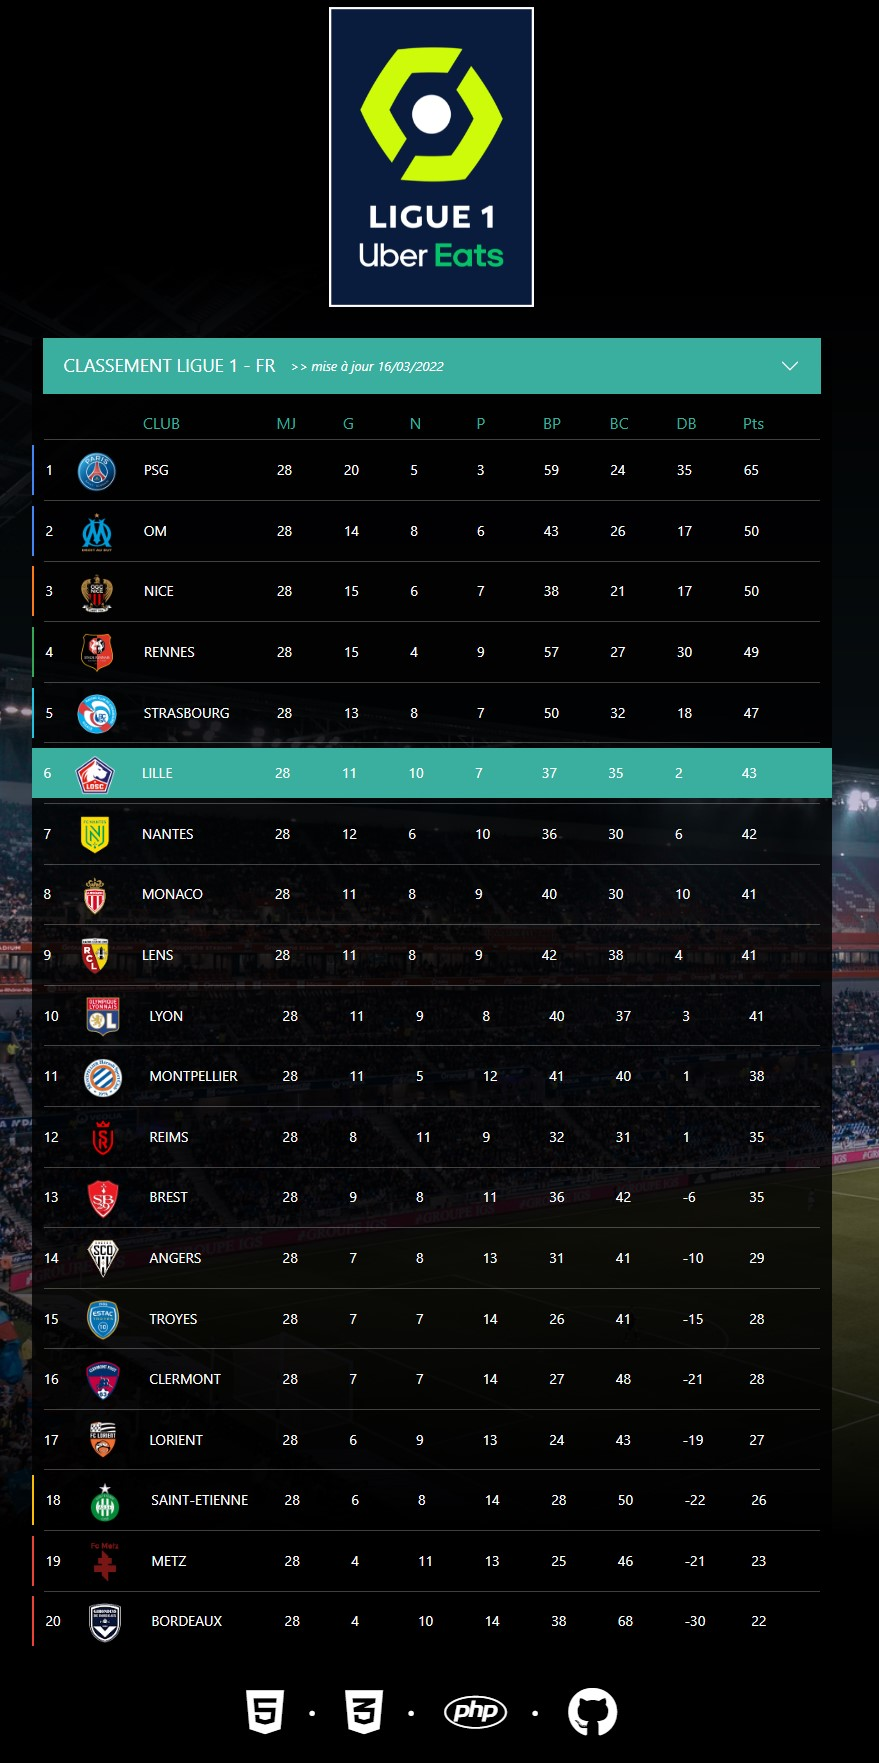
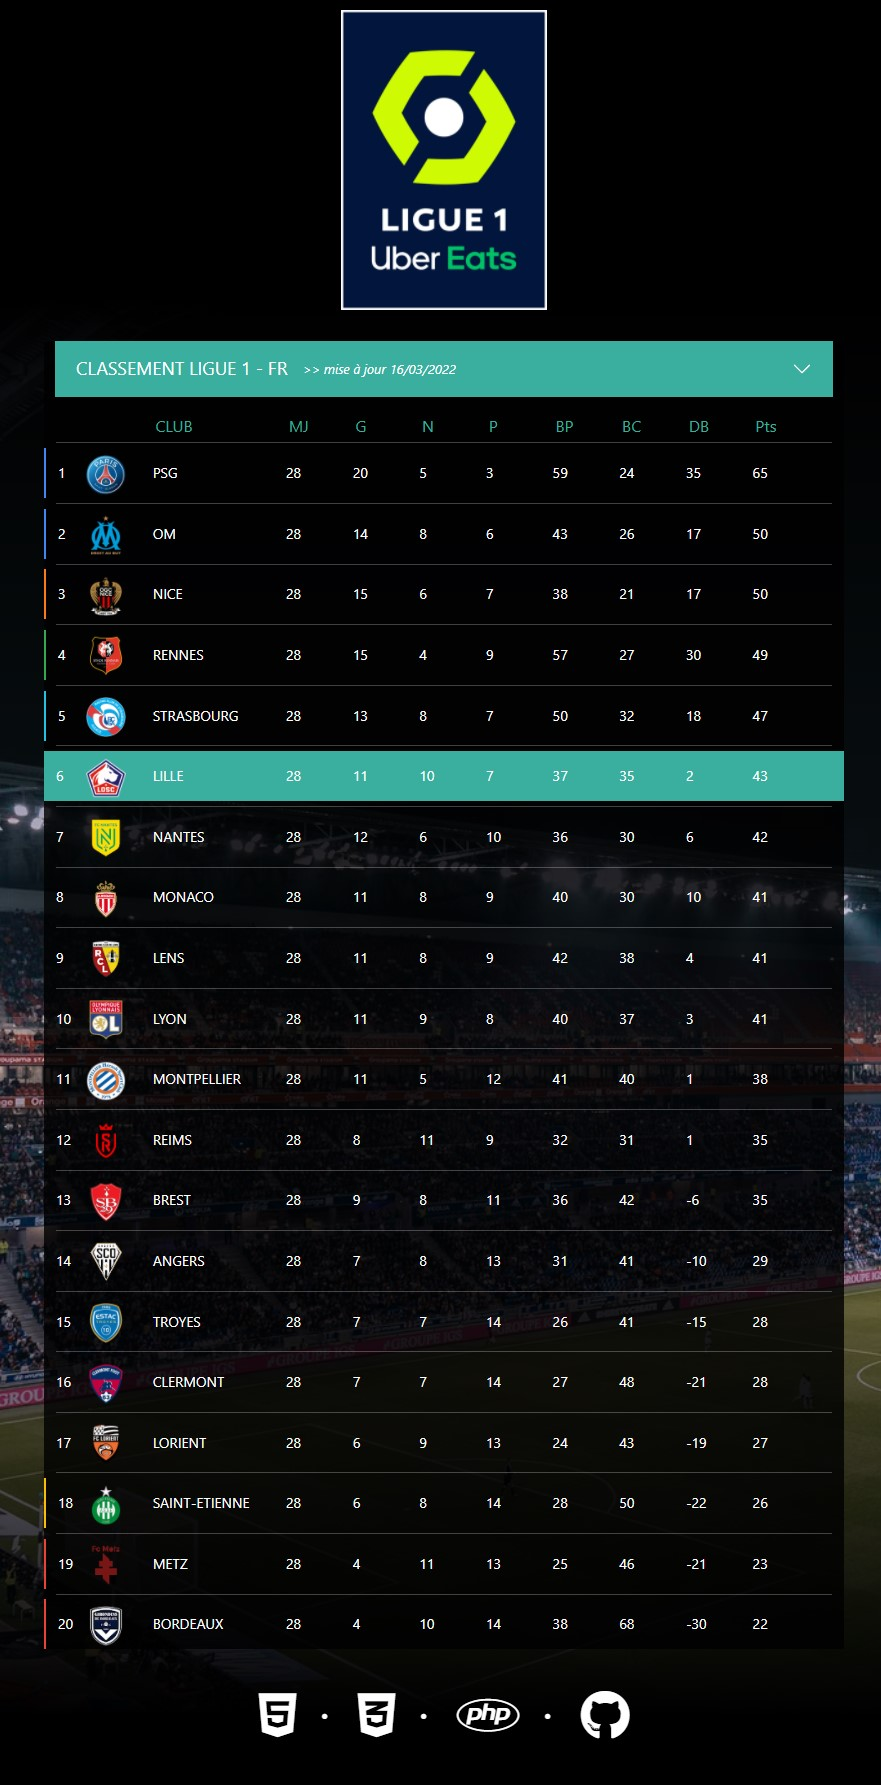
fix rank number width

diff --git a/css/style.css b/css/style.css
@@ -167,6 +167,10 @@ ul li:before {
 
 }
 
+.rank-position {
+    width: 30px;
+}
+
 .rank-highlight-1, .rank-highlight-2 {
     border-left: 2px solid #4285F4;
 }

diff --git a/index.php b/index.php
@@ -339,7 +339,7 @@
                     ?>
                             <hr>
                             <div class="row classement <?php echo $club["nom"] ?>">
-                                <div class="col-auto rank-position rank-highlight-<?php echo $i ?>"><?php echo $i ?></div>
+                                <div class="col-1 rank-position rank-highlight-<?php echo $i ?>"><?php echo $i ?></div>
                                 <div class="col-1 rank-logo"><img src="assets/img/<?php echo $club["nom"] ?>.png" class="club-logo"></div>
                                 <div class="col-2 rank-club"><?php echo strtoupper($club["nom"]) ?></div>
                                 <div class="col-1 rank-matchPlay"><?php echo $club["stats"]["mj"] ?></div>
